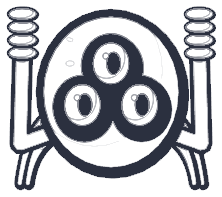
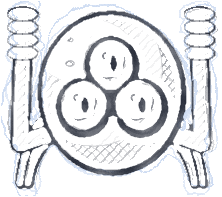
Redraw making-of sketches as pencil drawings
Replace the traced outlines with pencil-style drawings: centre-line graphite
strokes with varying pressure and a looser second pass, hatched shading and
a loose blue-pencil underdrawing. Blend them into the paper on the page.

diff --git a/games/scraphead/making-of/making-of.css b/games/scraphead/making-of/making-of.css
@@ -52,7 +52,7 @@ body.mo ::selection { background: #ffd640; color: var(--graphite); }
 .compare { position: relative; aspect-ratio: 1015 / 668; overflow: hidden; background: var(--paper-2); touch-action: pan-y; }
 .compare img { position: absolute; inset: 0; width: 100%; height: 100%; display: block; }
 .compare-sketch { position: absolute; inset: 0; background: var(--paper-2); clip-path: inset(0 calc(100% - var(--pos)) 0 0); }
-.compare-sketch img { filter: url(#pencil); }
+.compare-sketch img { filter: url(#pencil); mix-blend-mode: multiply; }
 .compare-handle { position: absolute; top: 0; bottom: 0; left: var(--pos); width: 4px; margin-left: -2px; background: var(--graphite); pointer-events: none; }
 .compare-handle span {
   position: absolute; top: 50%; left: 50%; width: 46px; height: 46px; margin: -23px 0 0 -23px;
@@ -101,7 +101,7 @@ body.mo ::selection { background: #ffd640; color: var(--graphite); }
 .taped.small-sketch { width: min(320px, 80%); margin: 0 auto; transform: rotate(-3deg); }
 .taped.photo { transform: rotate(-2deg); }
 .taped figcaption { text-align: center; color: var(--pen); font-size: 1.4rem; margin-top: 6px; }
-.sketch { filter: url(#pencil); }
+.sketch { filter: url(#pencil); mix-blend-mode: multiply; }
 
 .sticky {
   position: absolute; right: -4%; bottom: -10%; z-index: 4; width: 190px; margin: 0;

diff --git a/games/scraphead/making-of/index.html b/games/scraphead/making-of/index.html
@@ -31,7 +31,7 @@
     </filter>
     <filter id="pencil" x="-2%" y="-2%" width="104%" height="104%">
       <feTurbulence type="fractalNoise" baseFrequency="0.8" numOctaves="1" seed="3" />
-      <feDisplacementMap in="SourceGraphic" scale="2.4" xChannelSelector="R" yChannelSelector="G" />
+      <feDisplacementMap in="SourceGraphic" scale="1.4" xChannelSelector="R" yChannelSelector="G" />
     </filter>
     <symbol id="i-steam" viewBox="0 0 32 32"><path fill="currentColor" d="M16 2a14 14 0 0 0-13.94 12.8l7.5 3.1a4 4 0 0 1 2.24-.68h.2l3.34-4.84v-.07a5.28 5.28 0 1 1 5.28 5.28h-.12l-4.77 3.4v.18a3.96 3.96 0 0 1-7.85.76L2.5 19.9A14 14 0 1 0 16 2Zm-5.2 21.24-1.72-.71a2.97 2.97 0 1 0 1.6-4.07l1.78.74a2.19 2.19 0 1 1-1.66 4.04Zm13.35-10.8a3.52 3.52 0 1 0-3.52 3.52 3.52 3.52 0 0 0 3.52-3.52Zm-6.16 0a2.65 2.65 0 1 1 2.64 2.65 2.64 2.64 0 0 1-2.64-2.65Z"/></symbol>
     <symbol id="i-tick" viewBox="0 0 24 24"><path d="M3.5 13.5 C6 15 7.5 17 9 19.5 C12 12 15.5 7.5 21 3.5" fill="none" stroke="currentColor" stroke-width="3" stroke-linecap="round" stroke-linejoin="round"/></symbol>
